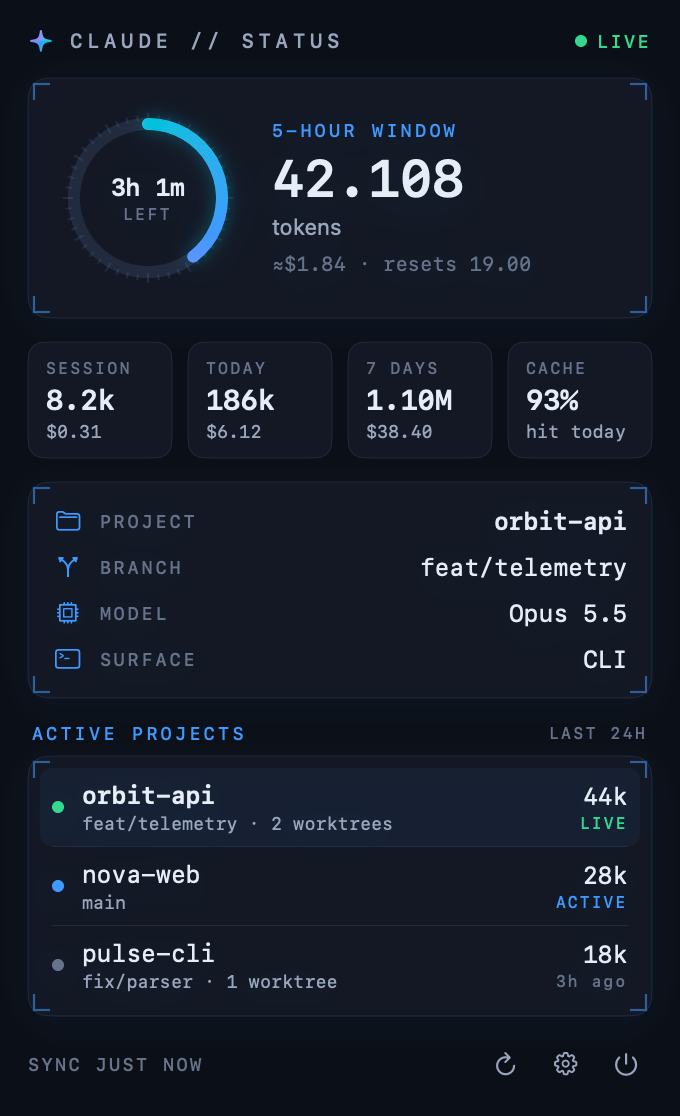
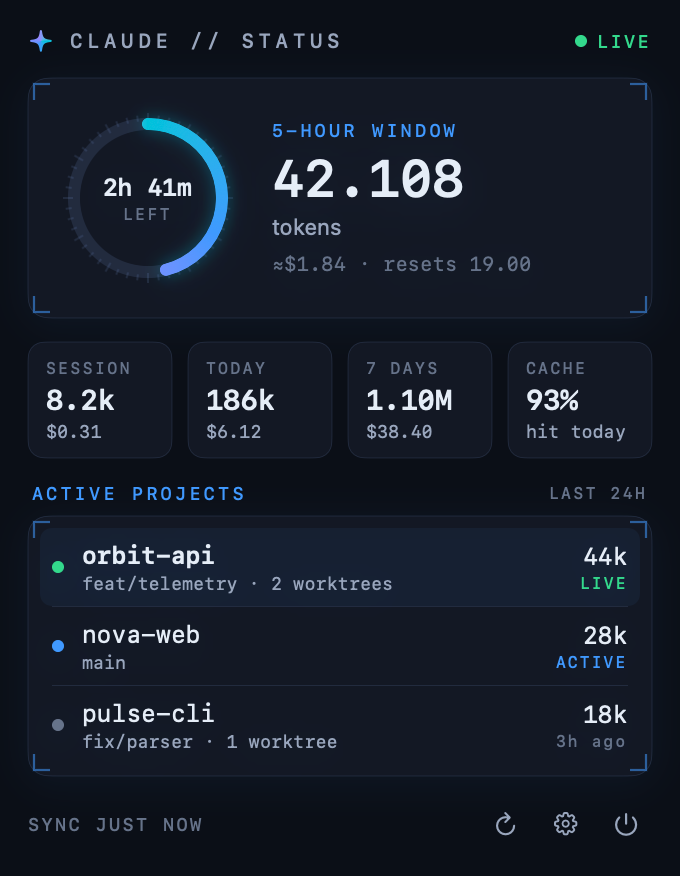
refactor: remove current-project card from panel
The active projects list already highlights the current project, and the menu bar tooltip shows the model. Drops the unused Surface helper and its strings.

diff --git a/Sources/ClaudeStatus/PanelView.swift b/Sources/ClaudeStatus/PanelView.swift
@@ -27,7 +27,6 @@ struct PanelView: View {
             } else {
                 hero(snap, now: now)
                 stats(snap)
-                nowCard(snap)
                 if !snap.projects.isEmpty { projectsCard(snap, now: now) }
             }
             footer(snap, now: now)
@@ -145,40 +144,6 @@ struct PanelView: View {
         .overlay(RoundedRectangle(cornerRadius: 8, style: .continuous).stroke(Theme.hair, lineWidth: 0.5))
     }
 
-    // MARK: Now
-
-    private func nowCard(_ snap: UsageSnapshot) -> some View {
-        let c = snap.context!
-        return HUDCard {
-            VStack(spacing: 8) {
-                row("folder", L("PROJECT")) {
-                    HStack(spacing: 6) {
-                        if c.worktree != nil {
-                            Text(L("WORKTREE"))
-                                .font(Theme.label(8)).tracking(1)
-                                .padding(.horizontal, 5).padding(.vertical, 1)
-                                .foregroundStyle(Theme.violet)
-                                .background(Capsule().fill(Theme.violet.opacity(0.10)))
-                        }
-                        Text(c.project).font(Theme.mono(12, .semibold)).foregroundStyle(Theme.ink).lineLimit(1).truncationMode(.middle)
-                    }
-                }
-                .help(c.cwd)
-                row("arrow.triangle.branch", L("BRANCH")) {
-                    Text(Self.branchText(c.branch))
-                        .font(Theme.mono(12)).foregroundStyle(Theme.ink).lineLimit(1).truncationMode(.middle)
-                }
-                row("cpu", L("MODEL")) {
-                    Text(ModelName.pretty(c.model)).font(Theme.mono(12)).foregroundStyle(Theme.ink)
-                }
-                .help(c.model)
-                row(Surface.icon(c.entrypoint), L("SURFACE")) {
-                    Text(Surface.name(c.entrypoint)).font(Theme.mono(12)).foregroundStyle(Theme.ink)
-                }
-            }
-        }
-    }
-
     // MARK: Projects
 
     private static let maxProjects = 6
@@ -241,18 +206,6 @@ struct PanelView: View {
 
     private static func branchText(_ branch: String) -> String {
         branch.isEmpty || branch == "HEAD" ? L("no branch") : branch
-    }
-
-    private func row<V: View>(_ icon: String, _ label: String, @ViewBuilder value: () -> V) -> some View {
-        HStack(spacing: 8) {
-            Image(systemName: icon)
-                .font(.system(size: 11))
-                .foregroundStyle(Theme.accent)
-                .frame(width: 16)
-            Text(label).font(Theme.label(9)).tracking(1.4).foregroundStyle(Theme.faint)
-            Spacer(minLength: 8)
-            value()
-        }
     }
 
     // MARK: Messages + footer

diff --git a/Sources/ClaudeStatus/Format.swift b/Sources/ClaudeStatus/Format.swift
@@ -73,29 +73,3 @@ enum ModelName {
     static func short(_ id: String) -> String { parse(id).family.uppercased() }
 }
 
-enum Surface {
-    static func name(_ entrypoint: String) -> String {
-        switch entrypoint {
-        case "": return "—"
-        case "cli": return "CLI"
-        case "claude-desktop": return L("Desktop app")
-        case "claude-vscode": return "VS Code"
-        case let s where s.contains("jetbrains"): return "JetBrains"
-        case let s where s.hasPrefix("sdk"): return "Agent SDK"
-        case let s where s.contains("web") || s.contains("remote") || s.contains("cloud"): return L("Cloud")
-        default: return entrypoint
-        }
-    }
-
-    static func icon(_ entrypoint: String) -> String {
-        switch entrypoint {
-        case "cli": return "terminal"
-        case "claude-desktop": return "macwindow"
-        case "claude-vscode": return "chevron.left.forwardslash.chevron.right"
-        case let s where s.contains("jetbrains"): return "chevron.left.forwardslash.chevron.right"
-        case let s where s.hasPrefix("sdk"): return "shippingbox"
-        case let s where s.contains("web") || s.contains("remote") || s.contains("cloud"): return "cloud"
-        default: return "questionmark.circle"
-        }
-    }
-}

diff --git a/Sources/ClaudeStatus/Strings.swift b/Sources/ClaudeStatus/Strings.swift
@@ -66,11 +66,6 @@ enum Strings {
         "7 DAYS": ("7 TAGE", "7日間"),
         "CACHE": ("CACHE", "キャッシュ"),
         "hit today": ("Treffer", "ヒット率"),
-        "PROJECT": ("PROJEKT", "プロジェクト"),
-        "WORKTREE": ("WORKTREE", "ワークツリー"),
-        "BRANCH": ("BRANCH", "ブランチ"),
-        "MODEL": ("MODELL", "モデル"),
-        "SURFACE": ("UMGEBUNG", "実行環境"),
         "ACTIVE PROJECTS": ("AKTIVE PROJEKTE", "アクティブなプロジェクト"),
         "LAST 24H": ("LETZTE 24 STD.", "過去24時間"),
         "+%d more": ("+%d weitere", "他 %d 件"),
@@ -96,9 +91,6 @@ enum Strings {
         "%dm": ("%d Min.", "%d分"),
         "<1m": ("<1 Min.", "1分未満"),
 
-        // Surfaces
-        "Desktop app": ("Desktop-App", "デスクトップアプリ"),
-        "Cloud": ("Cloud", "クラウド"),
 
         // Settings
         "SETTINGS": ("EINSTELLUNGEN", "設定"),

diff --git a/README.md b/README.md
@@ -21,7 +21,6 @@ Lives in your menu bar as a single icon — no text, no wasted space. Hover for 
 
 - **5-hour window** — tokens used in the current usage window, a ring showing time left (or % of your own budget), reset time and an estimated cost.
 - **Session, today, 7 days** — token totals and estimated cost, plus today's cache hit rate.
-- **Project you're in now** — the folder, git branch, model (Opus 5.5, Sonnet 5.5, …) and surface (CLI, desktop app, VS Code, JetBrains, Agent SDK).
 - **Active projects** — every folder Claude worked in during the last 24 hours, newest first, with a live / active / idle dot, branch, worktree count and tokens. Claude Code worktrees and subfolders fold into their repo, so `AVIREO/.claude/worktrees/…` shows as **AVIREO**.
 - **Setup wizard** — a terminal installer and a first-run window that checks everything for you.
 - **English, Deutsch, 日本語** — pick a language in Settings, or let it follow your Mac. Switches live.
@@ -83,7 +82,7 @@ Click the **✦** icon in the menu bar to open the panel (hover it for a one-lin
 
 ### Active projects
 
-Each row is one project with Claude activity in the last 24 hours:
+Each row is one project with Claude activity in the last 24 hours. Hover the menu bar icon for the model you're on.
 
 | Dot | Meaning |
 | --- | --- |
